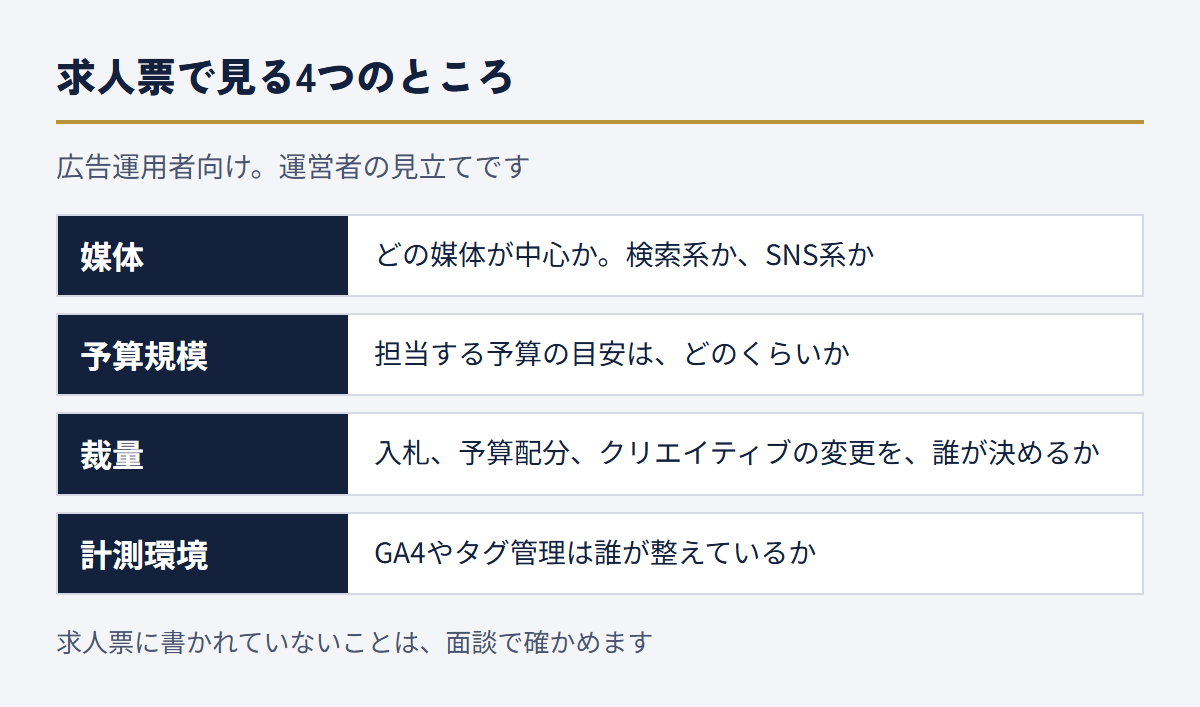
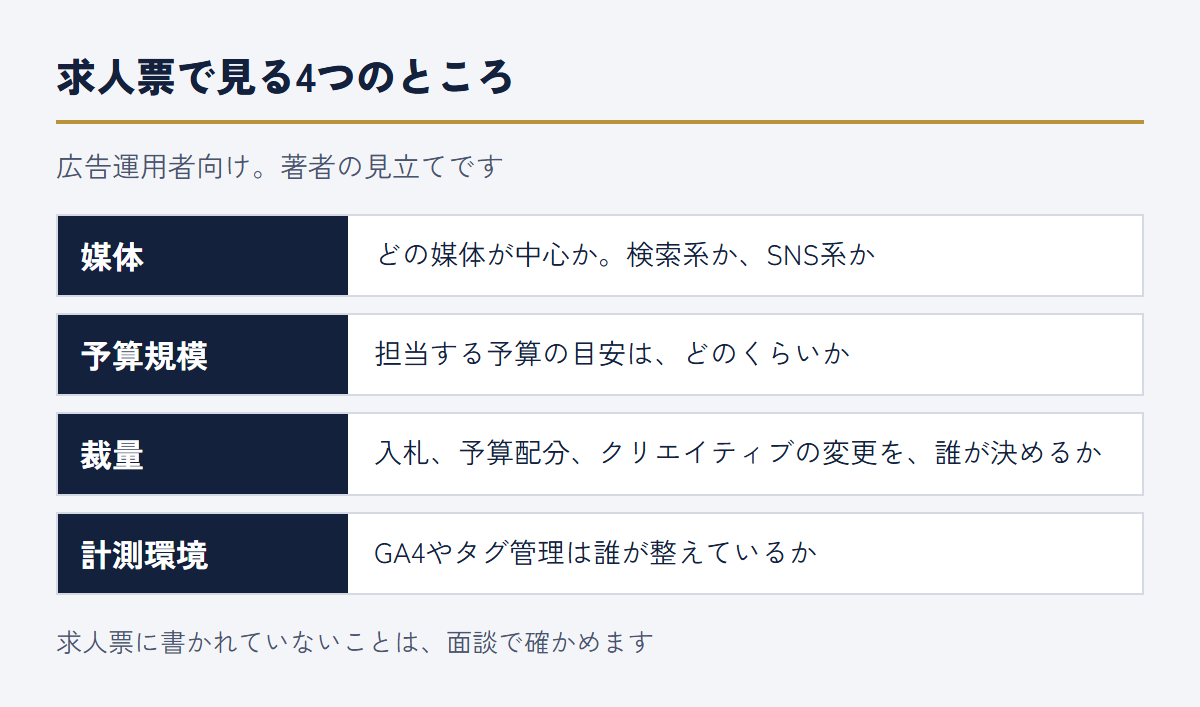
column: 0021 本文と図の「運営者(SET UP)」を「著者」に言い換える（審査部 通過）

diff --git a/column/0021/index.html b/column/0021/index.html
@@ -200,7 +200,7 @@ height="0" width="0" style="display:none;visibility:hidden"></iframe></noscript>
         <span class="date"><time datetime="2026-11-26">2026.11.26</time></span>
         <span class="cat">転職</span>
       </div>
-      <p class="pr-note">本記事にはアフィリエイト広告(A8.net)を利用したリンクが含まれます。リンク経由でお申し込みがあった場合、運営者(SET UP)が報酬を受け取ることがあります。紹介するサービスの選定と評価は、運営者の基準で行っています。</p>
+      <p class="pr-note">本記事にはアフィリエイト広告(A8.net)を利用したリンクが含まれます。リンク経由でお申し込みがあった場合、著者が報酬を受け取ることがあります。紹介するサービスの選定と評価は、著者の基準で行っています。</p>
       <h1>転職エージェントおすすめ13社をタイプ別に比較｜選び方と広告運用者の視点</h1>
       <figure class="eyecatch">
         <img src="ogp.png" width="1200" height="630" alt="転職エージェントおすすめ13社をタイプ別に比較" decoding="async">
@@ -234,7 +234,7 @@ height="0" width="0" style="display:none;visibility:hidden"></iframe></noscript>
 
     <div class="body">
       <p>「転職エージェント おすすめ」と検索すると、ランキング形式の記事がたくさん出てきます。ただ、順位は、書いた人が何を基準にするかで入れ替わります。転職は、人によって、いまの職種も、希望する働き方も、動ける時期も違うため、全員に共通する1位はありません。</p>
-      <p>この記事は、運用型広告の運用代行をしている運営者(SET UP)が、各社の公式サイトで確認できた情報だけを使って、転職エージェント13社を<strong>タイプ別</strong>に整理したものです。順位は付けません。<strong></strong>この記事は体験談ではありません。書くのは、公式に確認できた事実と、広告運用の現場にいる者として、求人や経歴書を見るときの判断基準です。</p>
+      <p>この記事は、運用型広告の運用代行をしている著者が、各社の公式サイトで確認できた情報だけを使って、転職エージェント13社を<strong>タイプ別</strong>に整理したものです。順位は付けません。<strong></strong>この記事は体験談ではありません。書くのは、公式に確認できた事実と、広告運用の現場にいる者として、求人や経歴書を見るときの判断基準です。</p>
       <p>先に、この記事の数字の扱いを書いておきます。各社の公式サイトは、2026年11月26日に確認しました。求人数、実績、料金は、すべて公式サイトの表示を、時点つきで書きます。時点が公式に書かれていないものは「2026年11月26日閲覧時の公式サイトの表示」と書きます。書かれていないものは書きません。種類の違う数字(たとえば公開求人と、非公開を含む数)は、並べて比べません。また、「私ならこう判断する」という部分は、事実ではなく私の見立てだと分かるように書きます。</p>
       <p>この記事は、紹介する各社が運営・監修するものではありません。リクルートエージェントの運営は株式会社インディードリクルートパートナーズで、この記事はリクルートグループが運営・監修するものではありません。</p>
 
@@ -512,7 +512,7 @@ height="0" width="0" style="display:none;visibility:hidden"></iframe></noscript>
       <ul>
         <li>リクルートエージェント:転職決定数No.1(厚生労働省「人材サービス総合サイト」の、有料職業紹介事業者の就職者数。4か月以上の有期と無期、2025年度実績。2026年5月時点)</li>
       </ul>
-      <p>この表示は、上の条件での就職者数の集計結果で、運営者(SET UP)が評価した順位ではありません。ほかの会社の受賞や順位の表示は、この記事では扱いません。</p>
+      <p>この表示は、上の条件での就職者数の集計結果で、著者が評価した順位ではありません。ほかの会社の受賞や順位の表示は、この記事では扱いません。</p>
       <h3>軸5:運営会社と、情報の扱い</h3>
       <p>運営会社は、個人情報を預ける相手です。比較表の運営会社の列を見て、会社の概要やプライバシーポリシーを、登録前に読んでおくと安心です。</p>
 
@@ -528,12 +528,12 @@ height="0" width="0" style="display:none;visibility:hidden"></iframe></noscript>
             <tr><th>IT特化</th><td data-label="掲載社">レバテックキャリア</td><td data-label="向いていると考えられる人">IT・Web業界の職種(エンジニアなど)を考えている人</td></tr>
             <tr><th>広告・マーケ特化</th><td data-label="掲載社">マスメディアン、アドキャリ転職</td><td data-label="向いていると考えられる人">広告運用やマーケティング職を続けたい、または目指したい人</td></tr>
           </tbody>
-          <caption>この表は、運営者(SET UP)の整理です。優劣や順位を示すものではありません。</caption>
+          <caption>この表は、著者の整理です。優劣や順位を示すものではありません。</caption>
         </table>
       </div>
 
       <h2 id="s10">広告運用者・Webマーケターの目線:求人票で見る4つのところ</h2>
-      <p>ここからは、広告運用の現場にいる運営者(SET UP)の視点で、求人票をどう読むかを書きます。ここで書くことは、公式の基準ではなく、運用の仕事をしている私の見立てです。求人票は、同じ「広告運用」という職種名でも、仕事の中身がかなり違うことがあります。私は、次の4つを、求人票や面談で確かめたいと考えます。</p>
+      <p>ここからは、広告運用の現場にいる著者の視点で、求人票をどう読むかを書きます。ここで書くことは、公式の基準ではなく、運用の仕事をしている私の見立てです。求人票は、同じ「広告運用」という職種名でも、仕事の中身がかなり違うことがあります。私は、次の4つを、求人票や面談で確かめたいと考えます。</p>
       <figure class="fig"><img src="img/job-check.png" width="1200" height="707" alt="広告運用者が求人票で見る4つのところ。媒体、予算規模、裁量、計測環境" loading="lazy" decoding="async"></figure>
       <div class="tbl tbl-card w">
         <table>
@@ -544,7 +544,7 @@ height="0" width="0" style="display:none;visibility:hidden"></iframe></noscript>
             <tr><th>裁量</th><td data-label="なぜ見るか">運用の判断を、自分で行えるかで、成長の仕方と責任の重さが変わる</td><td data-label="求人票・面談で確かめる例">入札、予算配分、クリエイティブの変更を、誰が決めるか。承認の流れはどうなっているか</td></tr>
             <tr><th>計測環境</th><td data-label="なぜ見るか">計測が整っていないと、成果の良し悪しを判断できない。改善の質に直結する</td><td data-label="求人票・面談で確かめる例">GA4やタグ管理は誰が整えているか。コンバージョンの設計に関われるか。広告管理画面の数字と、自社の数字の差を、どう扱っているか</td></tr>
           </tbody>
-          <caption>この表は、運営者(SET UP)の見立てです。各社の公式が示す基準ではありません。</caption>
+          <caption>この表は、著者の見立てです。各社の公式が示す基準ではありません。</caption>
         </table>
       </div>
       <h3>媒体:同じ「運用」でも、中身が違う</h3>
